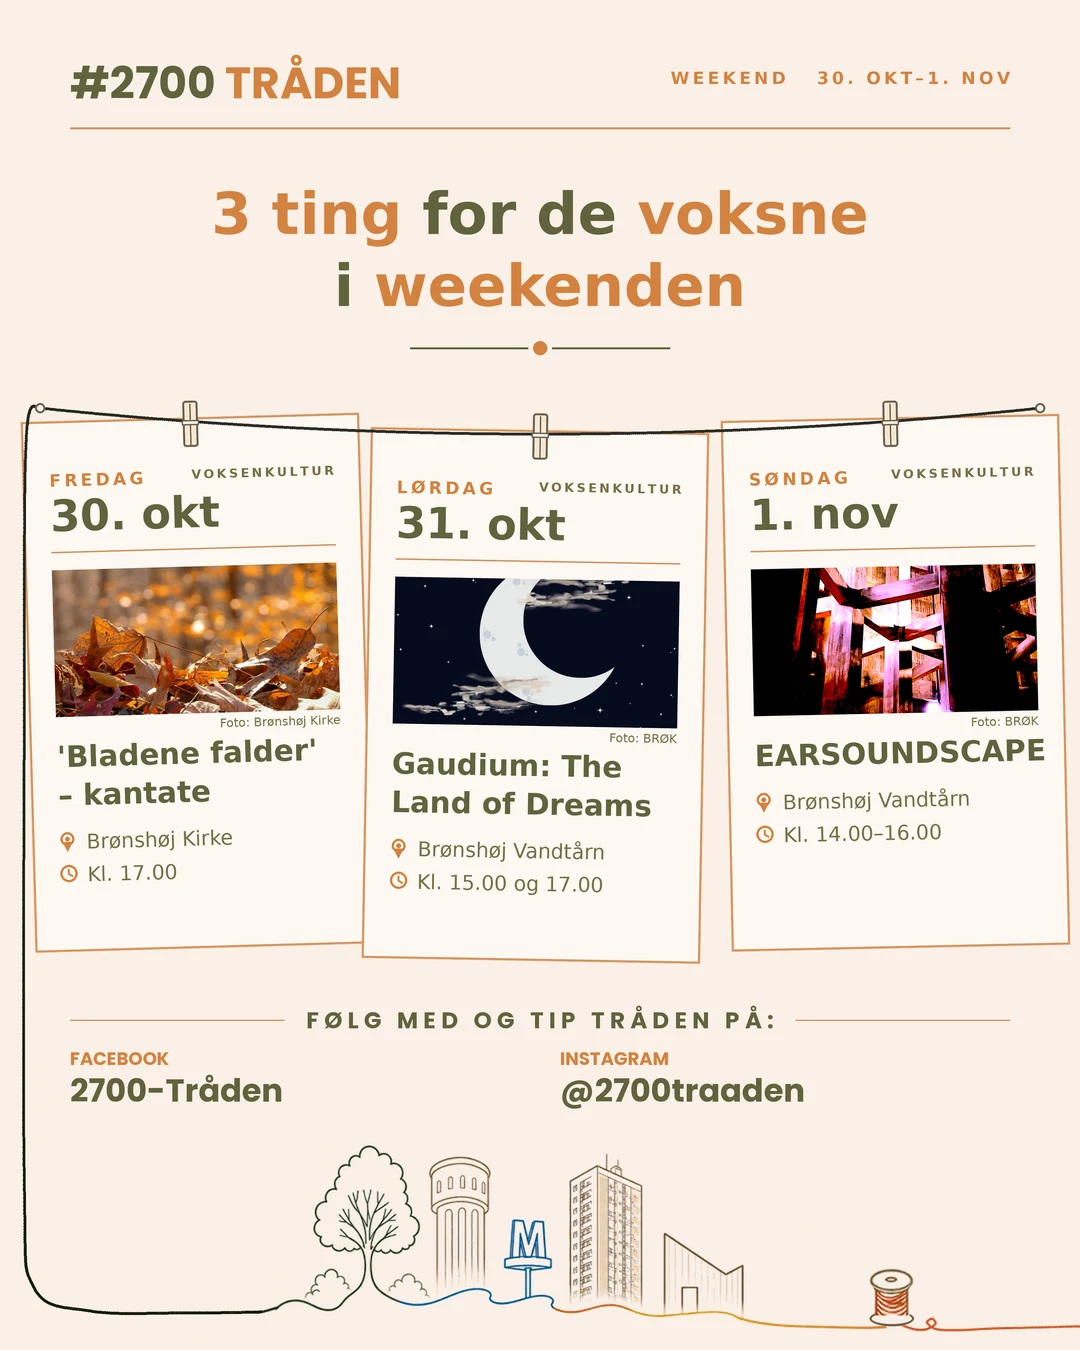
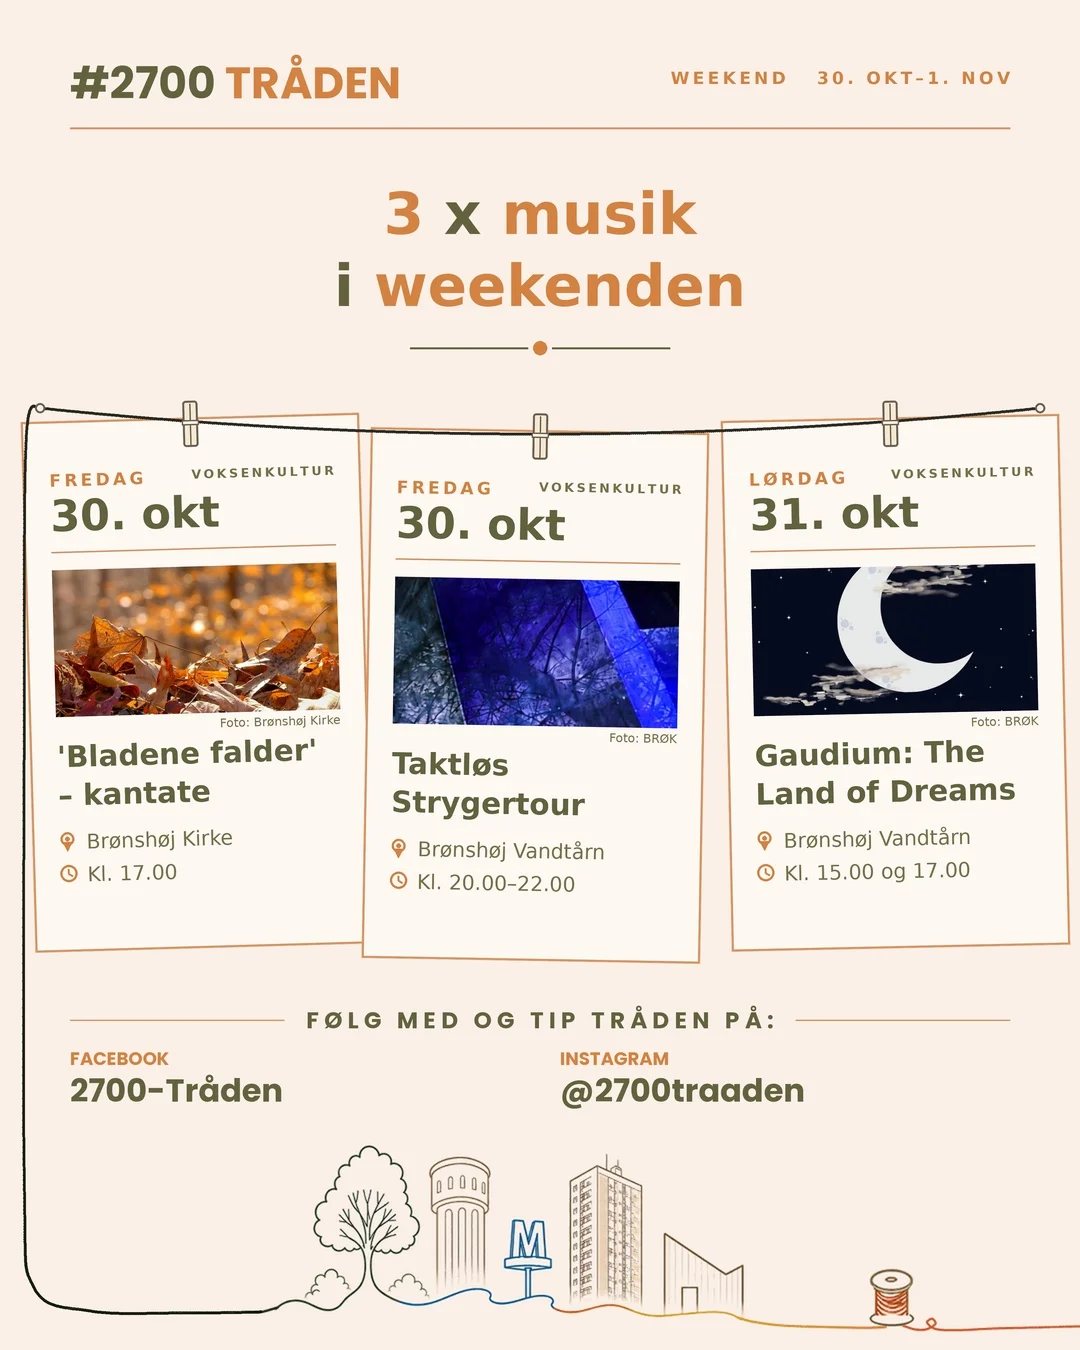
Weekendguiden 30. okt–1. nov: tilføj musik-slide (4 slides)
Claude-Session: https://claude.ai/code/session_01GoxhuvQsMAuvMUsJ8LNeNS

diff --git a/index.html b/index.html
@@ -122,9 +122,9 @@ body.vlock{overflow:hidden}
 <div class="shell"><header class="mast"><img class="ml" src="assets/logo-text.png" alt="#2700 TRÅDEN — Dit lokale overblik"><img class="ms" src="assets/skyline-hoved.png" alt="Skyline: Husum, Brønshøj, Bellahøj, Tingbjerg"></header>
 <main class="feedcol"><div class="page-title"><h1>Overblik</h1></div>
 
-  <section class="fpost" id="todoweekend1028" data-total="3">
+  <section class="fpost" id="todoweekend1028" data-total="4">
     <div class="fhead"><img class="av" src="assets/segment-todoweekend1028.webp" alt=""><div class="fname"><b>Weekendguiden</b><span>28. oktober 2026</span></div></div>
-    <div class="fwrap"><div class="strip" tabindex="0" aria-label="Kort: Hvad sker der i 2700 i denne weekend?"><div class="card k-img" aria-label="Slide 1 af 3: Hvad sker der i 2700 i denne weekend?"><img src="assets/slides/todoweekend1028/01.webp" alt="Hvad sker der i 2700 i denne weekend? – slide 1 af 3" width="1080" height="1350"></div><div class="card k-img" aria-label="Slide 2 af 3: Hvad sker der i 2700 i denne weekend?"><img src="assets/slides/todoweekend1028/02.webp" alt="Hvad sker der i 2700 i denne weekend? – slide 2 af 3" width="1080" height="1350" loading="lazy"></div><div class="card k-img" aria-label="Slide 3 af 3: Hvad sker der i 2700 i denne weekend?"><img src="assets/slides/todoweekend1028/03.webp" alt="Hvad sker der i 2700 i denne weekend? – slide 3 af 3" width="1080" height="1350" loading="lazy"></div></div><button type="button" class="sa l" aria-label="Forrige">‹</button><button type="button" class="sa r" aria-label="Næste">›</button><span class="scount"></span></div>
+    <div class="fwrap"><div class="strip" tabindex="0" aria-label="Kort: Hvad sker der i 2700 i denne weekend?"><div class="card k-img" aria-label="Slide 1 af 4: 3 x musik i weekenden"><img src="assets/slides/todoweekend1028/01.webp" alt="3 x musik i weekenden" width="1080" height="1350"></div><div class="card k-img" aria-label="Slide 2 af 4: 3 ting for de voksne i weekenden"><img src="assets/slides/todoweekend1028/02.webp" alt="3 ting for de voksne i weekenden" width="1080" height="1350" loading="lazy"></div><div class="card k-img" aria-label="Slide 3 af 4: 3 ting for børn i weekenden"><img src="assets/slides/todoweekend1028/03.webp" alt="3 ting for børn i weekenden" width="1080" height="1350" loading="lazy"></div><div class="card k-img" aria-label="Slide 4 af 4: 3 kampe i 2700 i weekenden"><img src="assets/slides/todoweekend1028/04.webp" alt="3 kampe i 2700 i weekenden" width="1080" height="1350" loading="lazy"></div></div><button type="button" class="sa l" aria-label="Forrige">‹</button><button type="button" class="sa r" aria-label="Næste">›</button><span class="scount"></span></div>
     <div class="sdots"></div>
     <p class="fcap"><b>Hvad sker der i 2700 i denne weekend?</b> Skal du med til Halloween i 2700 eller på kraniejagt i mosen? Skal I hepe på Husum, IF Stadion og Brønshøj? Eller hvad med en ny allehelgens-kantate i Brønshøj Kirke og drømmende korsang i vandtårnet?</p>
     <details class="all"><summary>Se hele programmet med links</summary><div class="alle">
